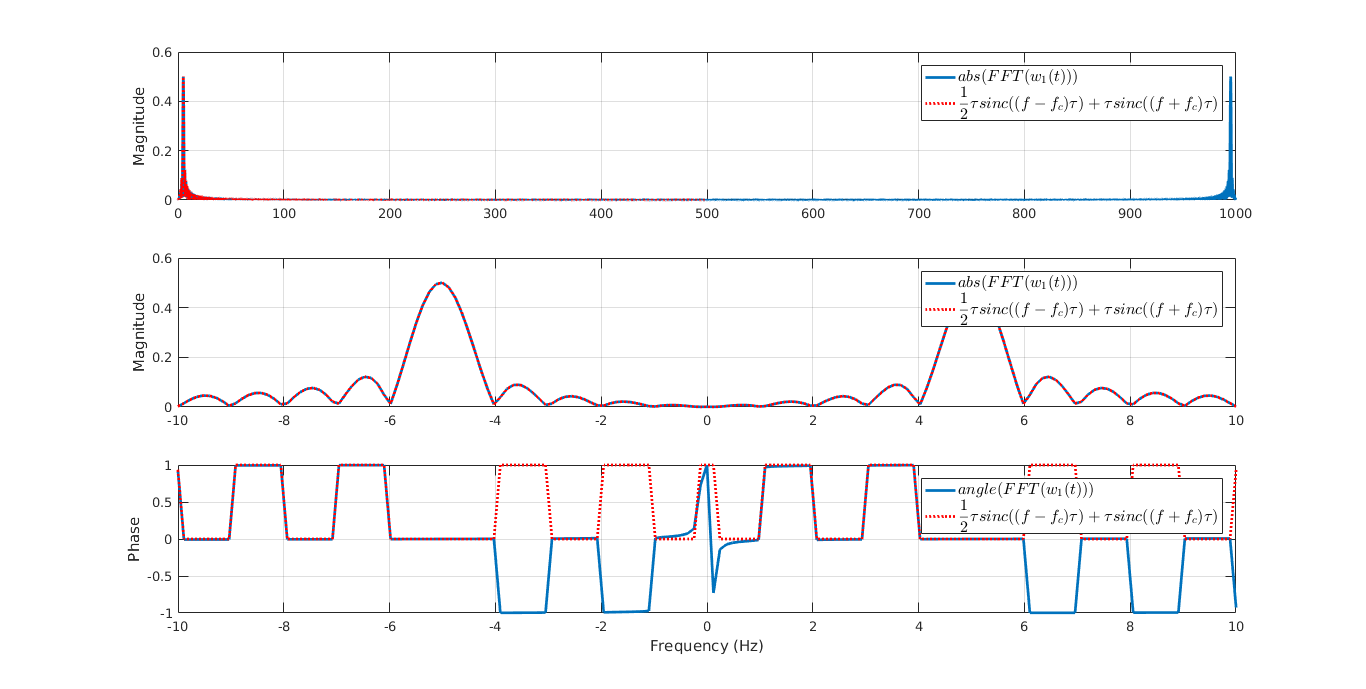
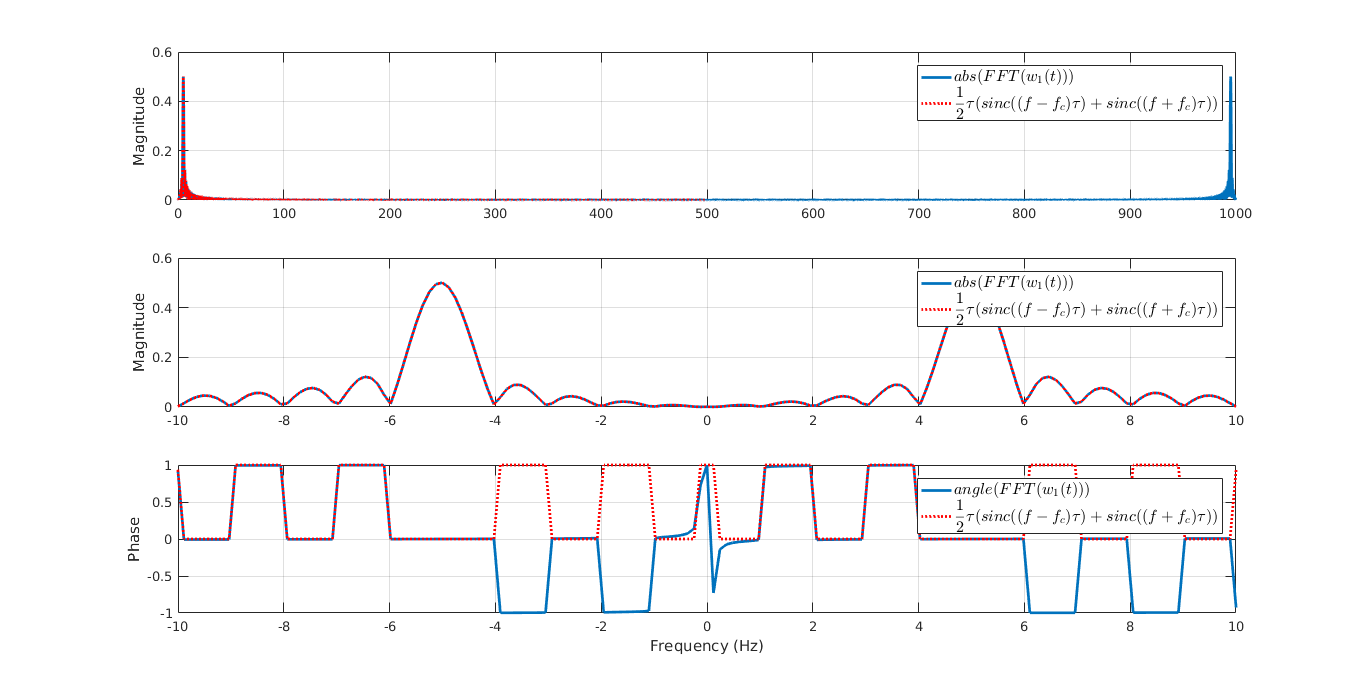
update plots lol maths

Changed region(s): [[0.6764, 0.0914, 0.8917, 0.1829], [0.6764, 0.701, 0.8917, 0.762], [0.6764, 0.3962, 0.8917, 0.4572]]

diff --git a/labs/lab08/scripts/part01.m b/labs/lab08/scripts/part01.m
@@ -12,10 +12,10 @@ plot_fft(c(t).*p3(t), theory_x3(f), 'x_{3}', '$$e^{j\pi (f-f_c)\tau} \tau sinc((
 
 % FFT with Cosine Modulation
 plot_fft(m(t).*p1(t), theory_w1(f), 'w_{1}',...
-    '$$\frac{1}{2} \tau sinc((f-f_{c})\tau) + \tau sinc((f+f_{c})\tau)$$');
+    '$$\frac{1}{2}\tau (sinc((f-f_{c})\tau) + sinc((f+f_{c})\tau))$$');
 
-plot_fft(m(t).*p2(t), theory_w2(f), 'w_{1}',...
-    '$$\frac{1}{2}e^{-j\pi (f-f_c)\tau} (\tau sinc((f-f_{c})\tau) + \tau sinc((f+f_{c})\tau))$$');
+plot_fft(m(t).*p2(t), theory_w2(f), 'w_{2}',...
+    '$$\frac{1}{2}\tau e^{-j\pi (f-f_c)\tau} (sinc((f-f_{c})\tau) + sinc((f+f_{c})\tau))$$');
 
-plot_fft(m(t).*p3(t), theory_w3(f), 'w_{1}',...
-    '$$\frac{1}{2}e^{j\pi (f-f_c)\tau} (\tau sinc((f-f_{c})\tau) + \tau sinc((f+f_{c})\tau))$$');
+plot_fft(m(t).*p3(t), theory_w3(f), 'w_{3}',...
+    '$$\frac{1}{2}\tau e^{j\pi (f-f_c)\tau} (sinc((f-f_{c})\tau) + sinc((f+f_{c})\tau))$$');

diff --git a/labs/lab08/scripts/settings.m b/labs/lab08/scripts/settings.m
@@ -29,6 +29,6 @@ theory_x1 = @(f) (tau.*sinc((f-f_c)*tau));
 theory_x2 = @(f) (exp(-1j*pi*tau*(f-f_c))*tau.*sinc((f-f_c)*tau));
 theory_x3 = @(f) (exp(1j*pi*tau*(f-f_c))*tau.*sinc((f-f_c)*tau));
 
-theory_w1 = @(f) (1/2*(tau.*sinc((f-f_c)*tau)+tau.*sinc((f+f_c)*tau)));
-theory_w2 = @(f) (1/2*exp(-1j*pi*tau*(f-f_c)).*(tau*sinc((f-f_c)*tau)+tau.*sinc((f+f_c)*tau)));
-theory_w3 = @(f) (1/2*exp(1j*pi*tau*(f-f_c)).*(tau*sinc((f-f_c)*tau)+tau.*sinc((f+f_c)*tau)));
+theory_w1 = @(f) (1/2*tau.*(sinc((f-f_c)*tau)+sinc((f+f_c)*tau)));
+theory_w2 = @(f) (1/2*tau*exp(-1j*pi*tau*(f-f_c)).*(sinc((f-f_c)*tau)+sinc((f+f_c)*tau)));
+theory_w3 = @(f) (1/2*tau*exp(1j*pi*tau*(f-f_c)).*(sinc((f-f_c)*tau)+sinc((f+f_c)*tau)));
